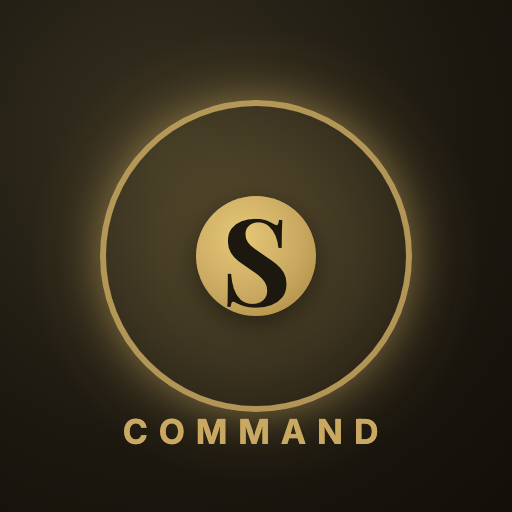
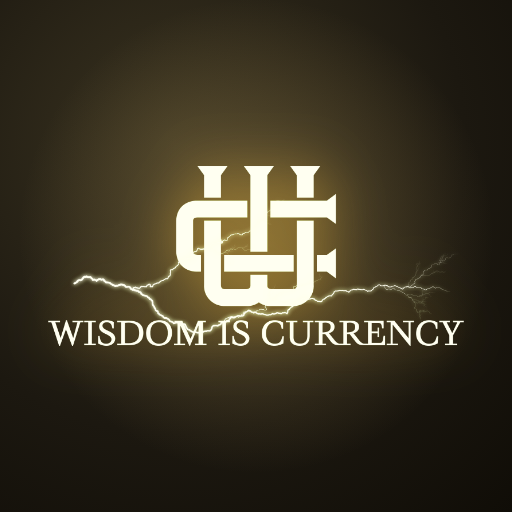
Rebrand dashboard → The Ledger by Wisdom Is Currency
- Title/header/app name: Command → The Ledger
- WIC tagline (steward what you spend) + lightning accent
- App icon swapped to the W-I-C gold monogram seal
- Manifest updated (name, description: Faith/Health/Rest/Business)

Changed region(s): [[0.0938, 0.1875, 0.9062, 0.875], [0.2188, 0.8125, 0.2812, 0.875], [0.8438, 0.5, 0.875, 0.5312]]

diff --git a/client-tracker/index.html b/client-tracker/index.html
@@ -3,12 +3,12 @@
 <head>
 <meta charset="UTF-8">
 <meta name="viewport" content="width=device-width, initial-scale=1.0, viewport-fit=cover, maximum-scale=1.0">
-<title>Command — Signature</title>
+<title>The Ledger — Wisdom Is Currency</title>
 <!-- PWA / Add-to-Home-Screen -->
 <meta name="apple-mobile-web-app-capable" content="yes">
 <meta name="mobile-web-app-capable" content="yes">
 <meta name="apple-mobile-web-app-status-bar-style" content="black-translucent">
-<meta name="apple-mobile-web-app-title" content="Command">
+<meta name="apple-mobile-web-app-title" content="The Ledger">
 <meta name="theme-color" content="#1c1810">
 <link rel="manifest" href="manifest.json">
 <link rel="apple-touch-icon" href="icon-512.png">
@@ -28,6 +28,7 @@
   .top{display:flex;justify-content:space-between;align-items:flex-end;flex-wrap:wrap;gap:12px;margin-bottom:8px}
   .hello{font-family:'Playfair Display',serif;font-size:1.9rem;font-weight:700}
   .hello span{color:var(--gold-deep);font-style:italic}
+  .wic{font-size:.7rem;color:var(--gold-deep);letter-spacing:.12em;text-transform:uppercase;font-weight:600;margin-top:3px}
   .date{font-size:.82rem;color:var(--muted);letter-spacing:.08em;text-transform:uppercase}
   .progress-wrap{margin:14px 0 26px}
   .progress-label{font-size:.72rem;color:var(--muted);text-transform:uppercase;letter-spacing:.15em;margin-bottom:6px}
@@ -115,7 +116,10 @@
 <div class="wrap">
 
   <div class="top">
-    <div class="hello">Client <span>Command</span>.</div>
+    <div>
+      <div class="hello">The <span>Ledger</span>.</div>
+      <div class="wic">⚡ Wisdom Is Currency · steward what you spend</div>
+    </div>
     <div class="date" id="dateline">—</div>
   </div>
 
@@ -144,7 +148,8 @@
   <div class="week" id="weekStrip"></div>
 
   <div class="foot">
-    Built for focus. One thing at a time. Check it off, get the hit, move on.<br>
+    One thing at a time. Score the actions, not the outcome. Steward the day.<br>
+    <span style="color:var(--gold-deep);font-weight:600;letter-spacing:.1em">⚡ THE LEDGER · BY WISDOM IS CURRENCY</span><br>
     <button class="reset" onclick="resetDay()">Reset today's checkboxes</button>
   </div>
 